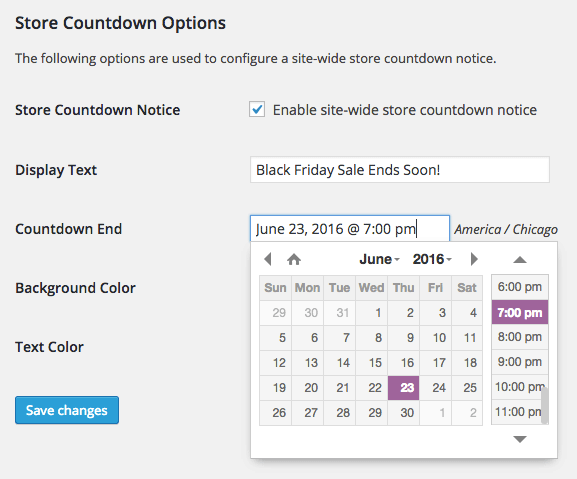
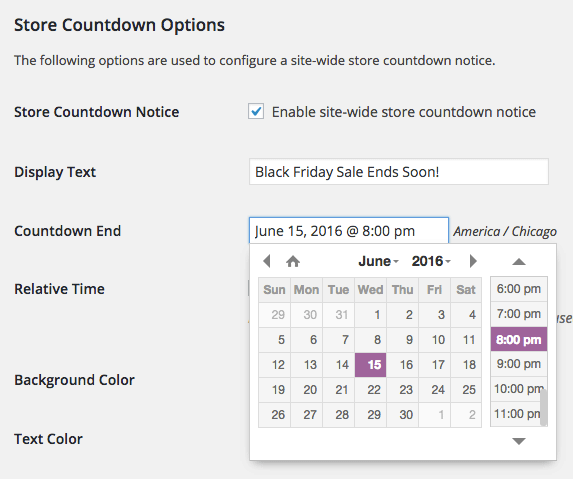
Add relative time support, pretty awesome

diff --git a/ui/js/admin.min.js b/ui/js/admin.min.js
@@ -1,1 +1,1 @@
-jQuery(document).ready(function(o){function t(){7!==s.val().length&&(s.val("#a46497"),s.css({"background-color":"rgb(164, 100, 151)"}))}function n(){7!==d.val().length&&(d.val("#ffffff"),d.css({"background-color":"rgb(255, 255, 255)"}))}var e=o("#wc_store_countdown_active"),c=e.closest("tr"),r=e.closest("tbody"),a=r.find("tr");e.is(":checked")?a.show():a.hide(),c.show(),e.change(function(){this.checked?a.show():a.hide(),c.show()});var i=function(o){var t=new Date;this.setOptions(t.dateFormat("Y-m-d")==o.dateFormat("Y-m-d")?{minTime:0}:{minTime:!1})};o("#wc_store_countdown_end").datetimepicker({formatTime:wc_store_countdown_admin.time_format,format:wc_store_countdown_admin.format,minDate:0,onSelectDate:i,onShow:i,theme:"woocommerce"});var s=o("#wc_store_countdown_bg_color");t(),s.on("focusout",function(){t()});var d=o("#wc_store_countdown_text_color");n(),d.on("focusout",function(){n()})});
+jQuery(document).ready(function(o){function t(){7!==_.val().length&&(_.val("#a46497"),_.css({"background-color":"rgb(164, 100, 151)"}))}function e(){7!==w.val().length&&(w.val("#ffffff"),w.css({"background-color":"rgb(255, 255, 255)"}))}var n=o("#wc_store_countdown_active"),c=n.closest("tr"),r=n.closest("tbody"),i=r.find("tr");n.is(":checked")?i.show():i.hide(),c.show(),n.change(function(){this.checked?i.show():i.hide(),c.show()});var a=o("#wc_store_countdown_relative_time"),s=o("#wc_store_countdown_end").next("span.description");a.is(":checked")?s.hide():s.show(),a.change(function(){this.checked?s.hide():s.show()});var d=function(o){var t=new Date;this.setOptions(t.dateFormat("Y-m-d")==o.dateFormat("Y-m-d")?{minTime:0}:{minTime:!1})};o("#wc_store_countdown_end").datetimepicker({formatTime:wc_store_countdown_admin.time_format,format:wc_store_countdown_admin.format,minDate:0,onSelectDate:d,onShow:d,theme:"woocommerce"});var _=o("#wc_store_countdown_bg_color");t(),_.on("focusout",function(){t()});var w=o("#wc_store_countdown_text_color");e(),w.on("focusout",function(){e()})});

diff --git a/ui/js/admin.js b/ui/js/admin.js
@@ -1,12 +1,12 @@
 /* globals datetimepicker, wc_store_countdown_admin */
 jQuery( document ).ready( function( $ ) {
 
-	var $checkbox = $( '#wc_store_countdown_active' ),
-	    $row      = $checkbox.closest( 'tr' ),
-	    $body     = $checkbox.closest( 'tbody' ),
-	    $rows     = $body.find( 'tr' );
+	var $active = $( '#wc_store_countdown_active' ),
+	    $row    = $active.closest( 'tr' ),
+	    $body   = $active.closest( 'tbody' ),
+	    $rows   = $body.find( 'tr' );
 
-	if ( $checkbox.is( ':checked' ) ) {
+	if ( $active.is( ':checked' ) ) {
 		$rows.show();
 	} else {
 		$rows.hide();
@@ -14,7 +14,7 @@ jQuery( document ).ready( function( $ ) {
 
 	$row.show();
 
-	$checkbox.change( function() {
+	$active.change( function() {
 		if ( this.checked ) {
 			$rows.show();
 		} else {
@@ -22,6 +22,23 @@ jQuery( document ).ready( function( $ ) {
 		}
 
 		$row.show();
+	});
+
+	var $relative = $( '#wc_store_countdown_relative_time' ),
+	    $end_desc = $( '#wc_store_countdown_end' ).next( 'span.description' );
+
+	if ( $relative.is( ':checked' ) ) {
+		$end_desc.hide();
+	} else {
+		$end_desc.show();
+	}
+
+	$relative.change( function() {
+		if ( this.checked ) {
+			$end_desc.hide();
+		} else {
+			$end_desc.show();
+		}
 	});
 
 	var setMinTime = function( ct ) {

diff --git a/woocommerce-store-countdown.php b/woocommerce-store-countdown.php
@@ -71,14 +71,14 @@ class WC_Store_Countdown {
 
 		define( 'WC_STORE_COUNTDOWN_URL', plugins_url( '/', __FILE__ ) );
 
+		// Sanitize the countdown end time for programmatic use
 		self::$countdown_end = str_replace( '@', '', (string) get_option( 'wc_store_countdown_end' ) );
+		self::$countdown_end = date( 'Y-m-d H:i:s', strtotime( self::$countdown_end ) );
 
-		/**
-		 * We are going to assume the user will input a datetime that is in their
-		 * site's local timezone. So we will then convert that datetime to GMT Unix
-		 * Epoch so we can make programatic date calculations behind the scenes.
-		 */
-		self::$countdown_end = strtotime( get_gmt_from_date( date( 'Y-m-d H:i:s', strtotime( self::$countdown_end ) ) ) );
+		// Use GMT when not using relative time
+		if ( ! self::use_relative_time() ) {
+			self::$countdown_end = get_gmt_from_date( self::$countdown_end );
+		}
 
 		// Automatically deactivate the countdown option if time has expired
 		add_action( 'init', array( $this, 'maybe_deactivate_countdown' ) );
@@ -132,6 +132,48 @@ class WC_Store_Countdown {
 	}
 
 	/**
+	 * Check if we should use relative time for the Store Countdown
+	 *
+	 * If relative time is enabled, we will use the same countdown end time
+	 * for all customer timezones.
+	 *
+	 * E.g. End the countdown at 3:00pm in New York and also at 3:00pm in Paris.
+	 *
+	 * Otherwise we will convert the time to GMT so that the countdown will end
+	 * at the same "moment in time" no matter the customer timezone.
+	 *
+	 * E.g. End the countdown at 3:00pm in New York and at 9:00pm in Paris.
+	 *
+	 * @access public
+	 * @since 1.0.0
+	 * @static
+	 *
+	 * @return bool
+	 */
+	public static function use_relative_time() {
+		return ( 'yes' === (string) get_option( 'wc_store_countdown_relative_time' ) );
+	}
+
+	/**
+	 * Check if the Store Countdown has expired
+	 *
+	 * @access public
+	 * @since 1.0.0
+	 * @static
+	 *
+	 * @return bool
+	 */
+	public static function has_expired() {
+		if ( self::use_relative_time() ) {
+			$expired = ( strtotime( self::$countdown_end ) < (int) date_i18n( 'U' ) );
+		} else {
+			$expired = ( strtotime( self::$countdown_end ) < time() );
+		}
+
+		return (bool) $expired;
+	}
+
+	/**
 	 * Check if the Store Countdown is active
 	 *
 	 * 1. Option must be check in the WooCommerce General settings
@@ -147,7 +189,7 @@ class WC_Store_Countdown {
 		if (
 			( 'yes' === get_option( 'wc_store_countdown_active' ) )
 			&&
-			self::$countdown_end > time()
+			! self::has_expired()
 		) {
 			return true;
 		}
@@ -164,7 +206,7 @@ class WC_Store_Countdown {
 	 * @return void
 	 */
 	public function maybe_deactivate_countdown() {
-		if ( time() > self::$countdown_end ) {
+		if ( self::has_expired() ) {
 			update_option( 'wc_store_countdown_active', 'no' );
 		}
 	}
@@ -212,10 +254,17 @@ class WC_Store_Countdown {
 				'css'  => 'min-width:200px;',
 			),
 			array(
+				'name'     => __( 'Relative Time', 'woocommerce-store-countdown' ),
+				'id'       => 'wc_store_countdown_relative_time',
+				'type'     => 'checkbox',
+				'desc'     => __( 'Enabled', 'woocommerce-store-countdown' ),
+				'desc_tip' => __( "If enabled, the same Countdown End time will be used for all customer timezones — E.g. End the countdown at 3:00pm in New York and also at 3:00pm in Paris.", 'woocommerce-store-countdown' ),
+			),
+			array(
 				'name'    => __( 'Background Color', 'woocommerce-store-countdown' ),
 				'id'      => 'wc_store_countdown_bg_color',
 				'type'    => 'color',
-				'default' => '#000000',
+				'default' => '#a46497',
 				'css'     => 'max-width:80px;',
 			),
 			array(
@@ -262,7 +311,7 @@ class WC_Store_Countdown {
 
 		// Scripts
 		wp_enqueue_script( 'jquery-datetimepicker', WC_STORE_COUNTDOWN_URL . 'ui/js/jquery.datetimepicker.min.js', array( 'jquery' ), '2.4.3' );
-		wp_enqueue_script( 'wc-store-countdown-admin', WC_STORE_COUNTDOWN_URL . 'ui/js/admin.min.js', array( 'jquery' ), self::VERSION );
+		wp_enqueue_script( 'wc-store-countdown-admin', WC_STORE_COUNTDOWN_URL . 'ui/js/admin.js', array( 'jquery' ), self::VERSION );
 
 		// Styles
 		wp_enqueue_style( 'jquery-datetimepicker', WC_STORE_COUNTDOWN_URL . 'ui/css/jquery.datetimepicker.min.css', array(), '2.4.3' );
@@ -307,12 +356,14 @@ class WC_Store_Countdown {
 		// Styles
 		wp_enqueue_style( 'wc-store-countdown', WC_STORE_COUNTDOWN_URL . 'ui/css/wc-store-countdown.min.css', array(), self::VERSION );
 
+		$end = self::use_relative_time() ? self::$countdown_end : gmdate( 'c', strtotime( self::$countdown_end ) );
+
 		// Localized vars
 		wp_localize_script(
 			'wc-store-countdown',
 			'wc_store_countdown',
 			array(
-				'end' => esc_js( gmdate( 'c', self::$countdown_end ) ),
+				'end' => esc_js( $end ),
 			)
 		);
 	}
